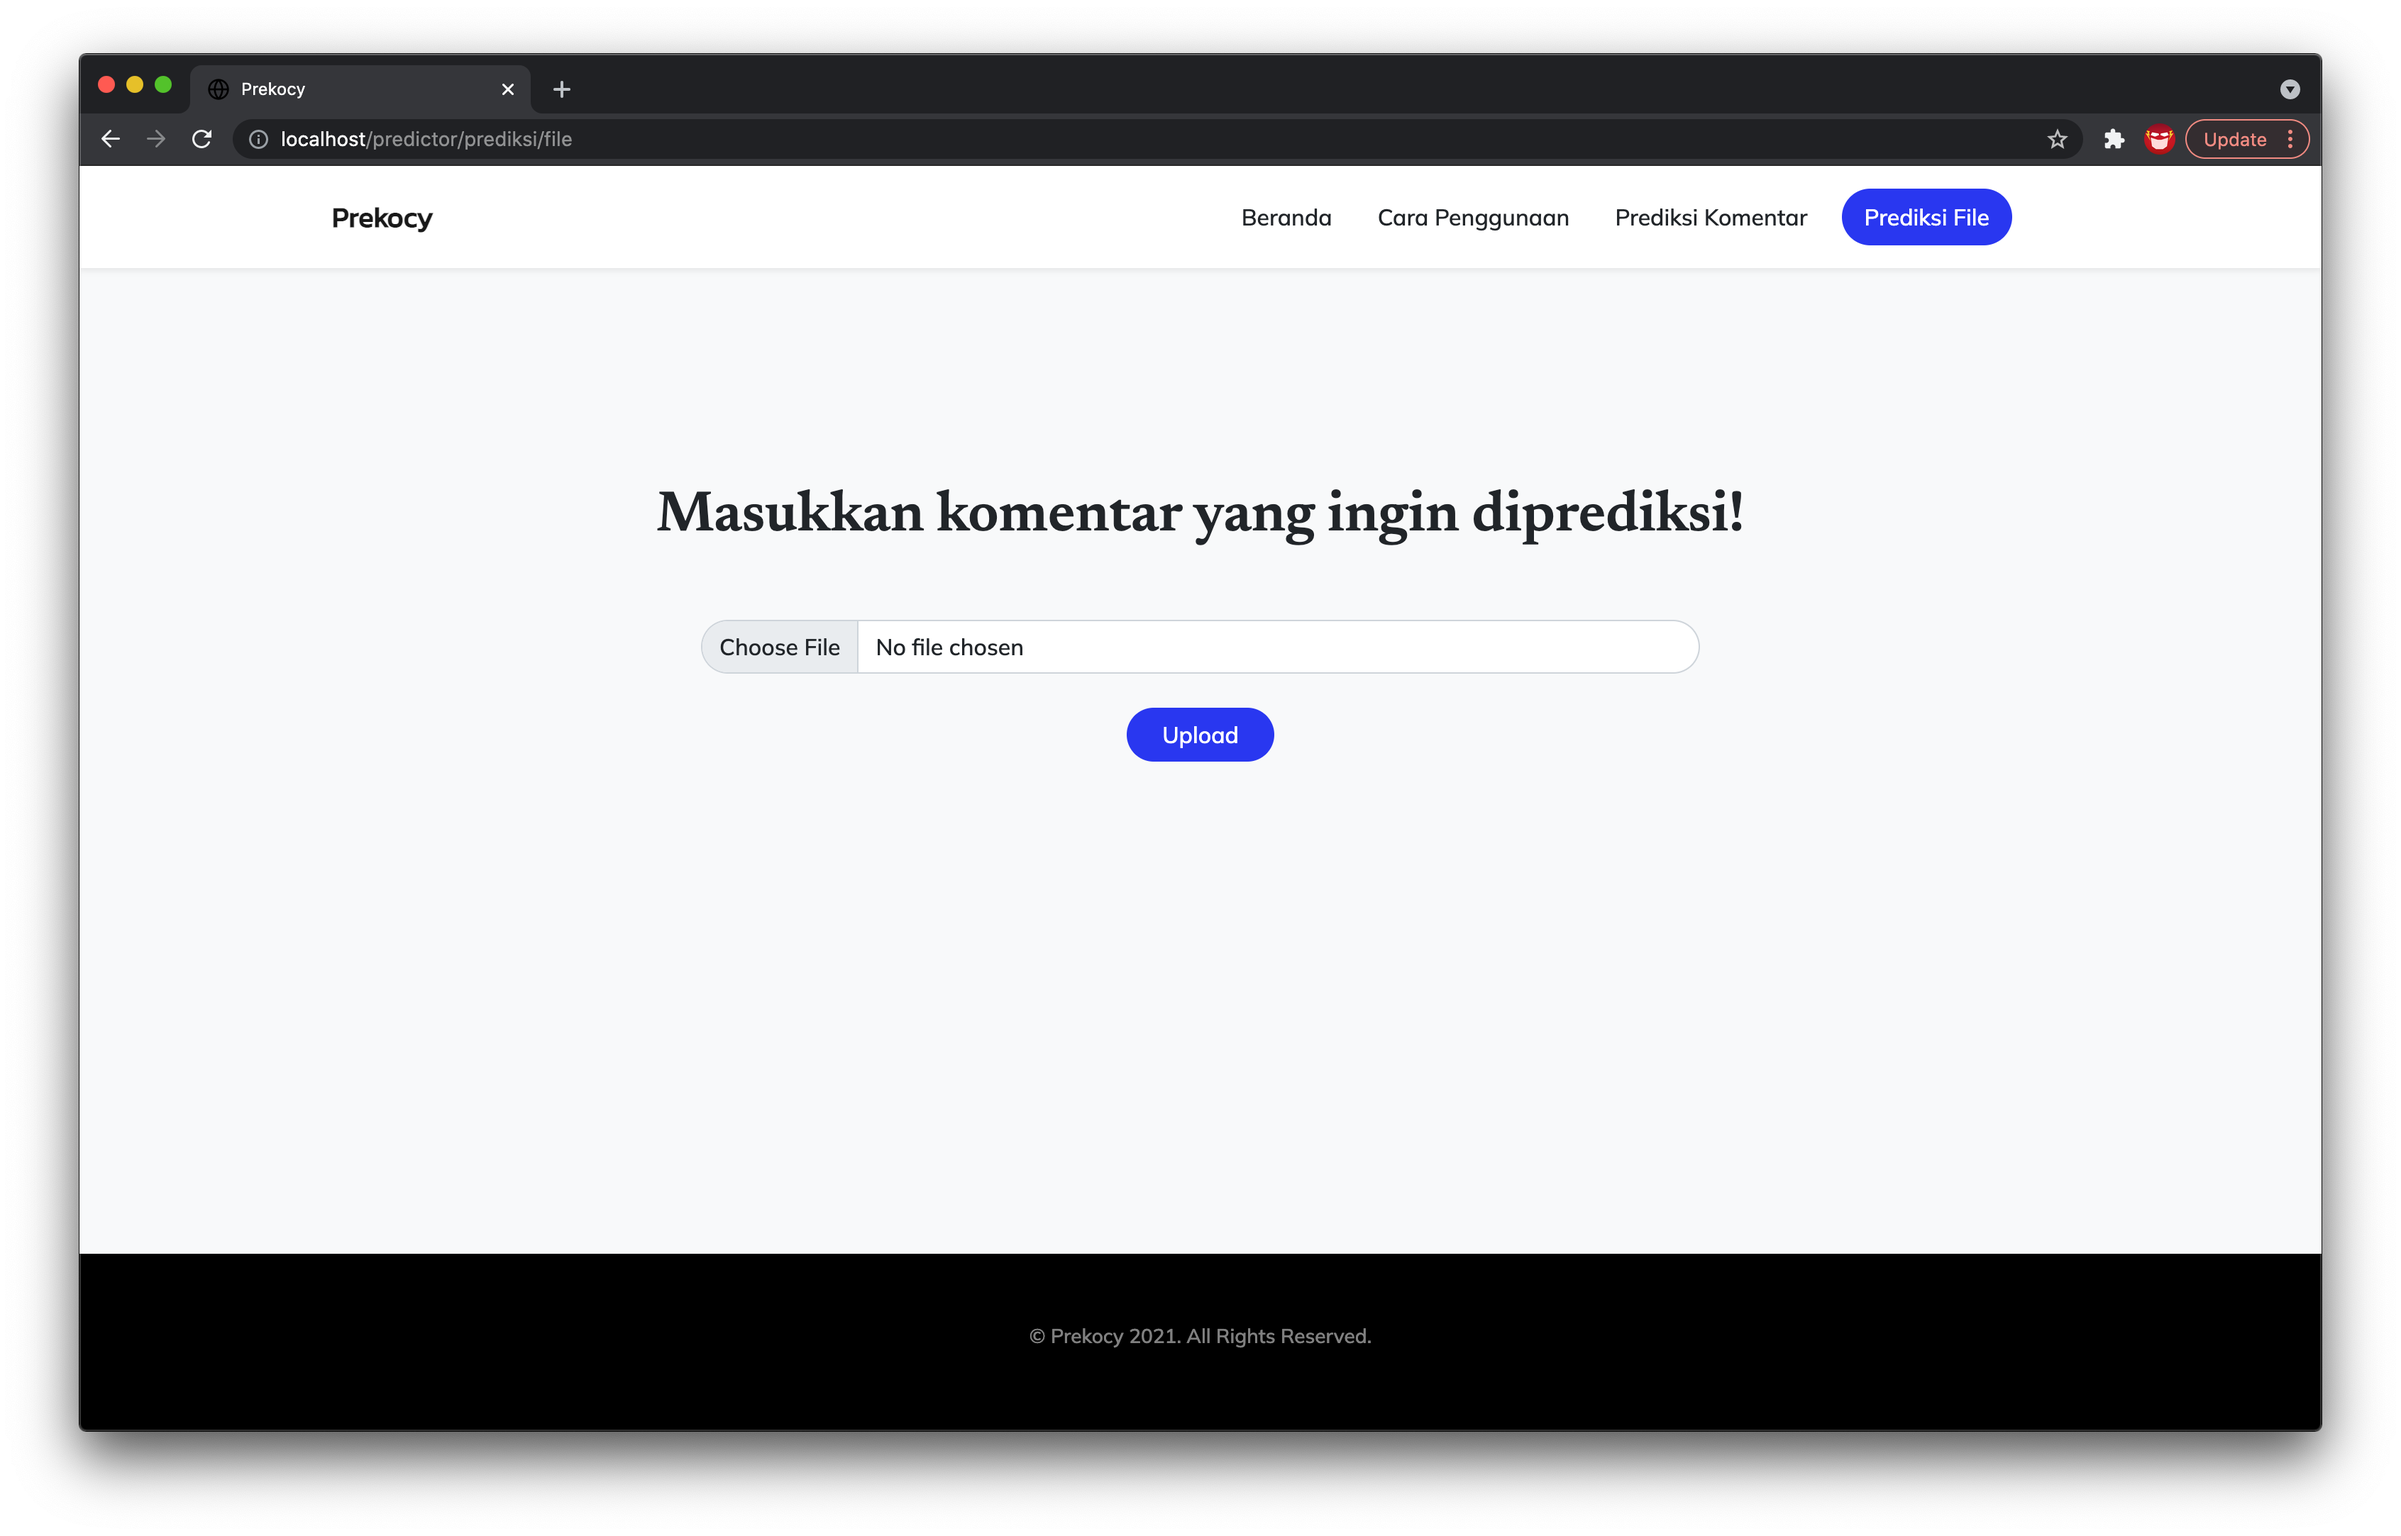
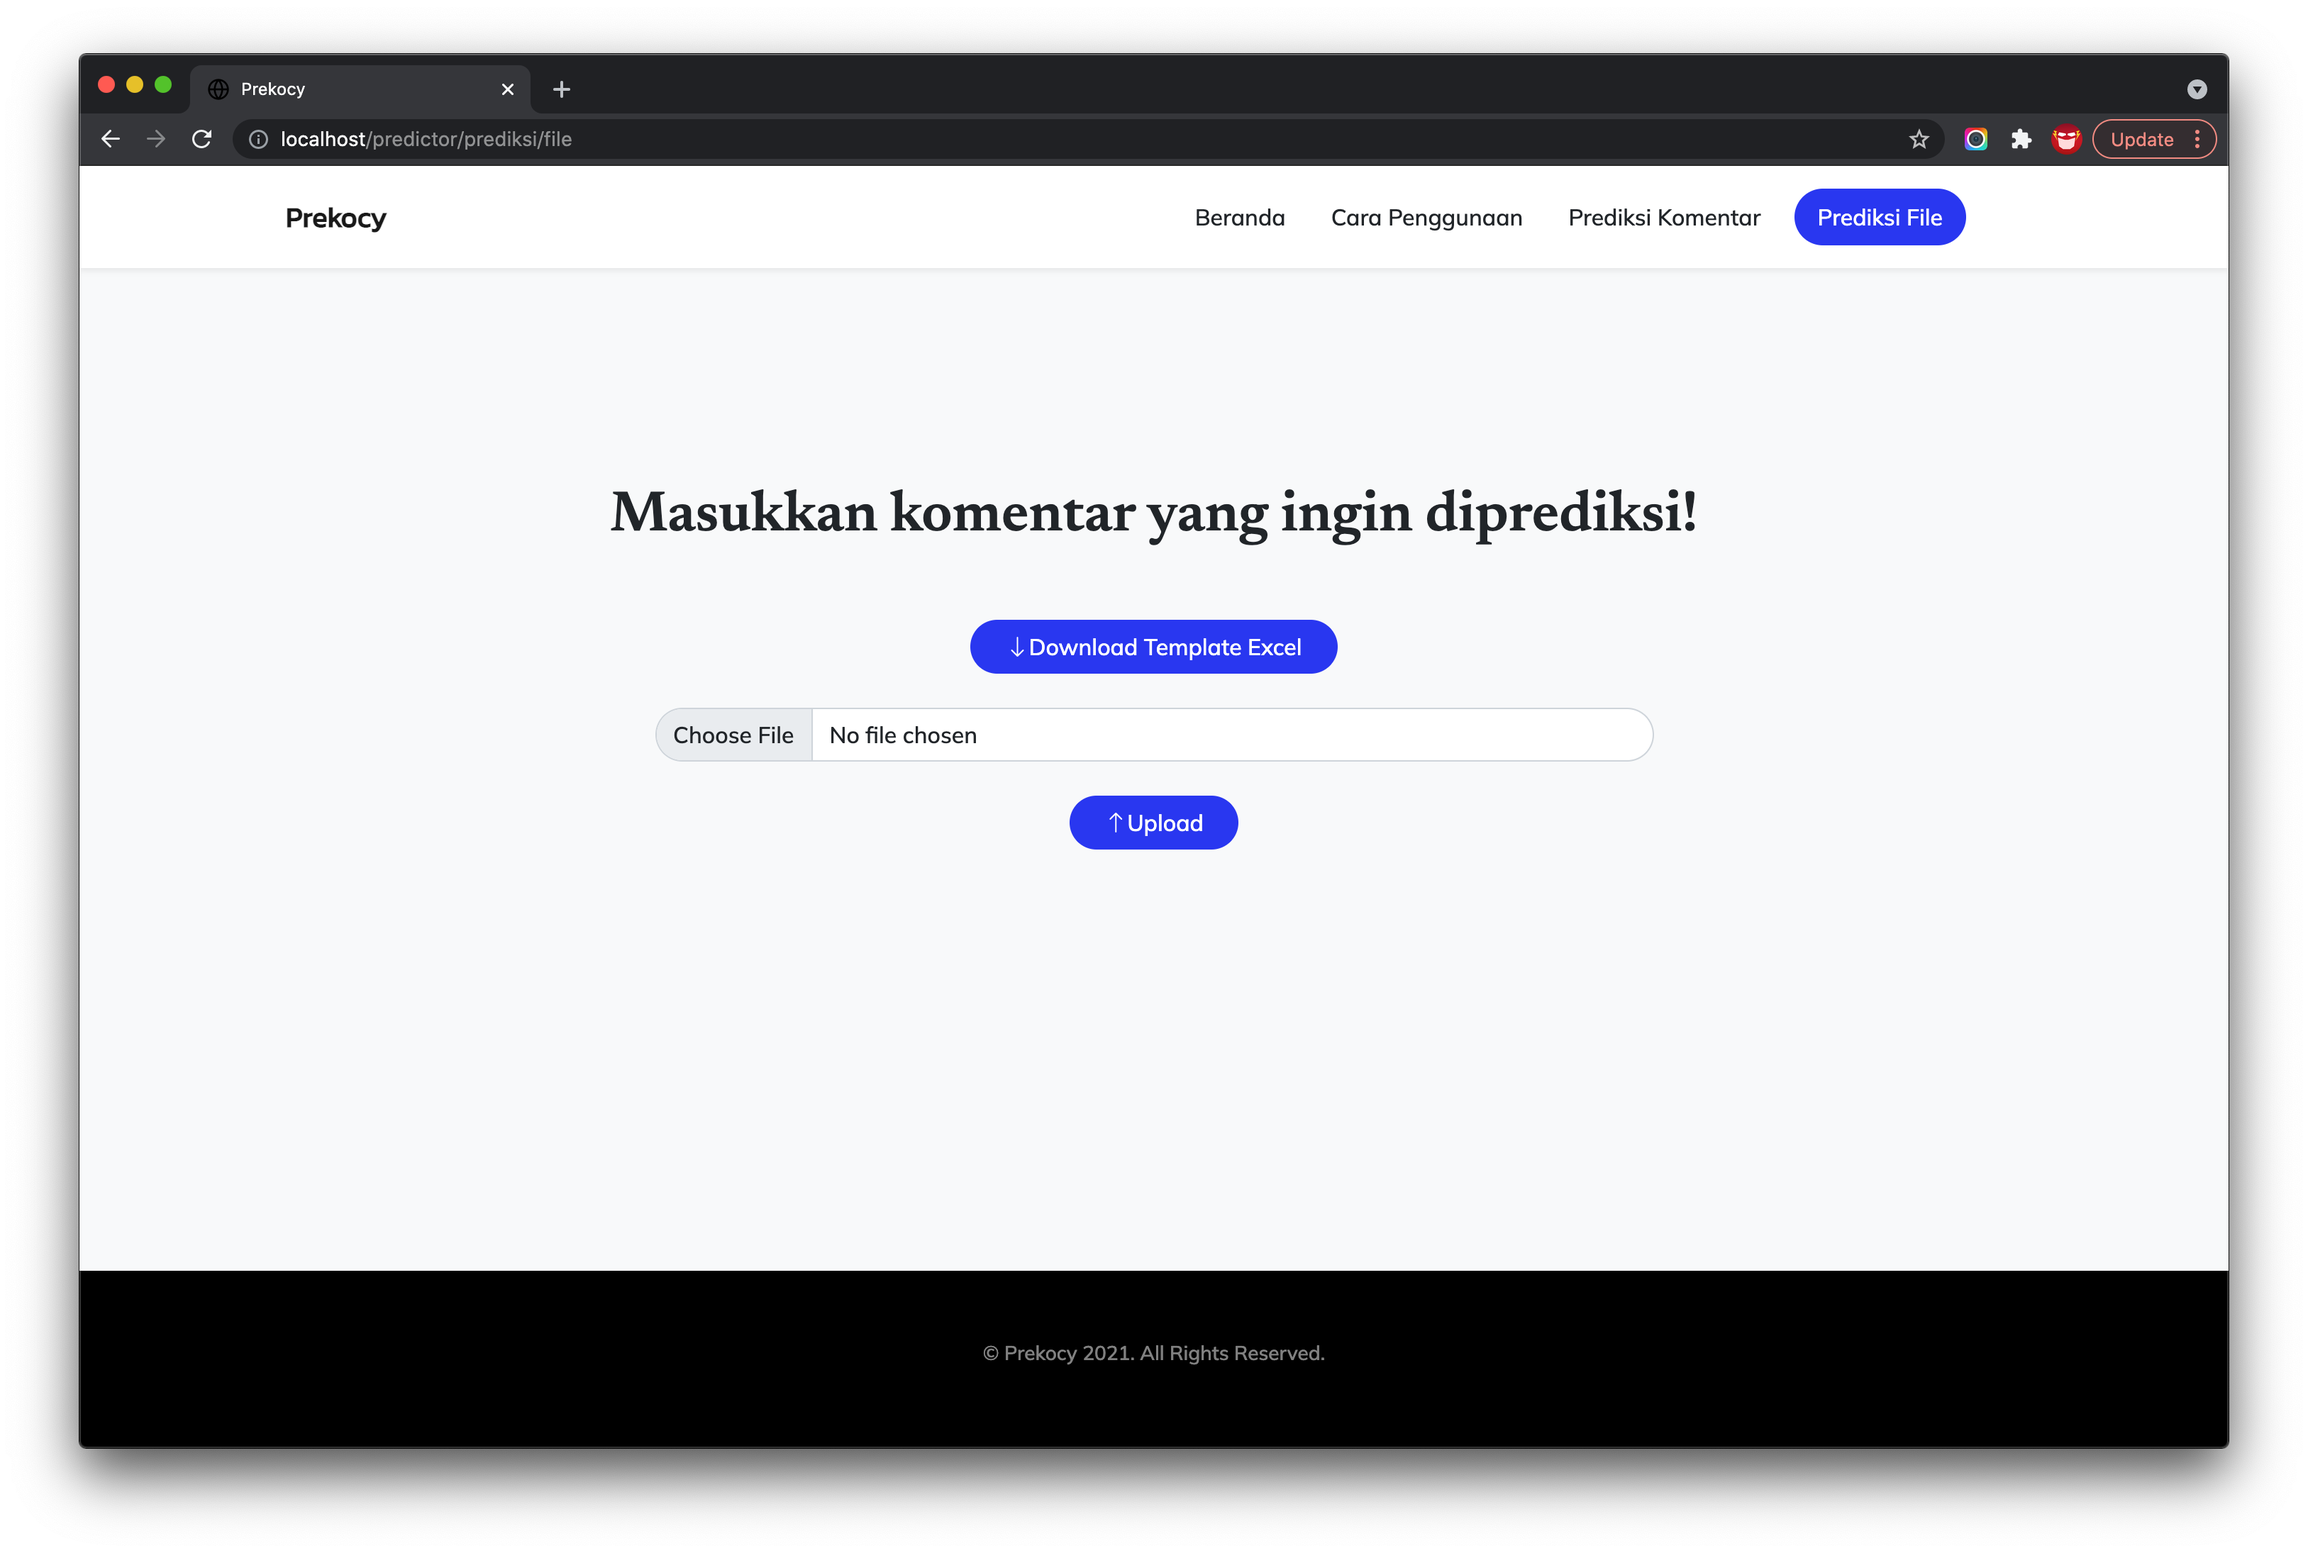
update

diff --git a/application/views/file_view.php b/application/views/file_view.php
@@ -6,11 +6,11 @@
                 <div class="col-xl-8 pt-5">
                     <?php echo form_open_multipart('Prediksi/importExcel'); ?>
                     <div class="h2 fs-1 text-black mb-5 text-center">Masukkan komentar yang ingin diprediksi!</div>
-                    <button class="btn btn-primary mx-auto d-block rounded-pill px-4" id="btnDownload" >Download</button>
+                    <button class="btn btn-primary mx-auto d-block rounded-pill px-4 mb-4" id="btnDownload" ><i class="bi bi-arrow-down"></i>Download Template Excel</button>
                     <div class="input-group mb-4 px-5">
                         <input id="inputFile" type="file" class="form-control rounded-pill" name="upload_file">
                     </div>
-                    <button type="submit" class="btn btn-primary mx-auto d-block rounded-pill px-4" id="btnUpload" >Upload</button>
+                    <button type="submit" class="btn btn-primary mx-auto d-block rounded-pill px-4" id="btnUpload"><i class="bi bi-arrow-up"></i>Upload</button>
                     <?php echo form_close(); ?>
                 </div>
             </div>
